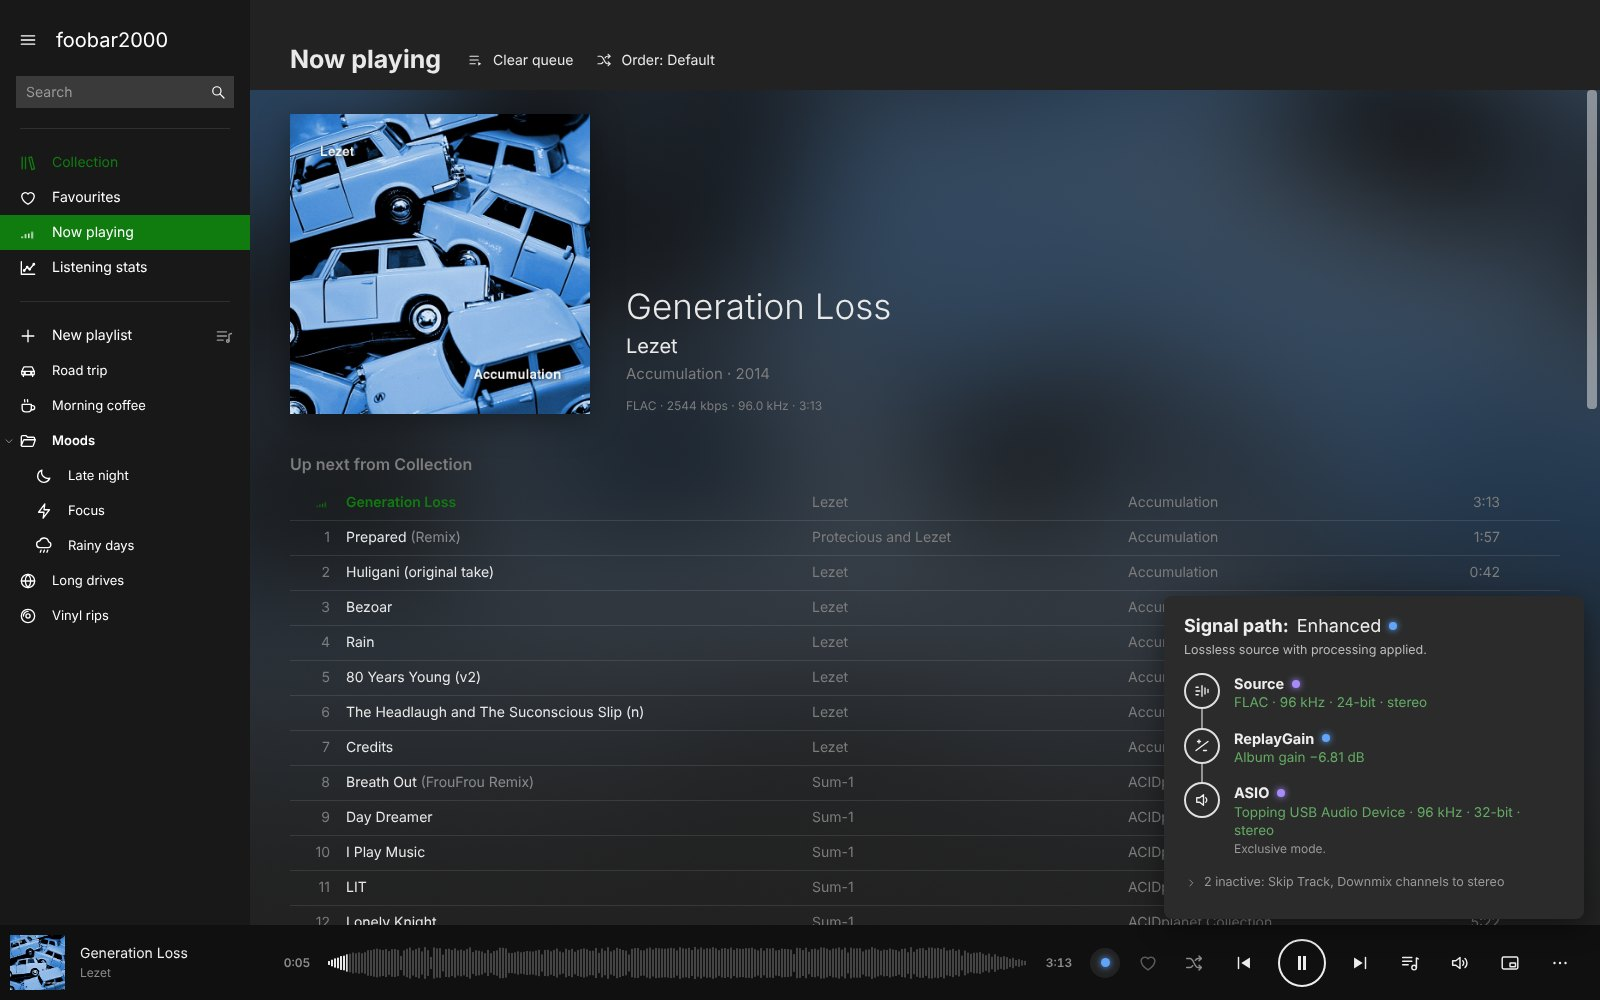
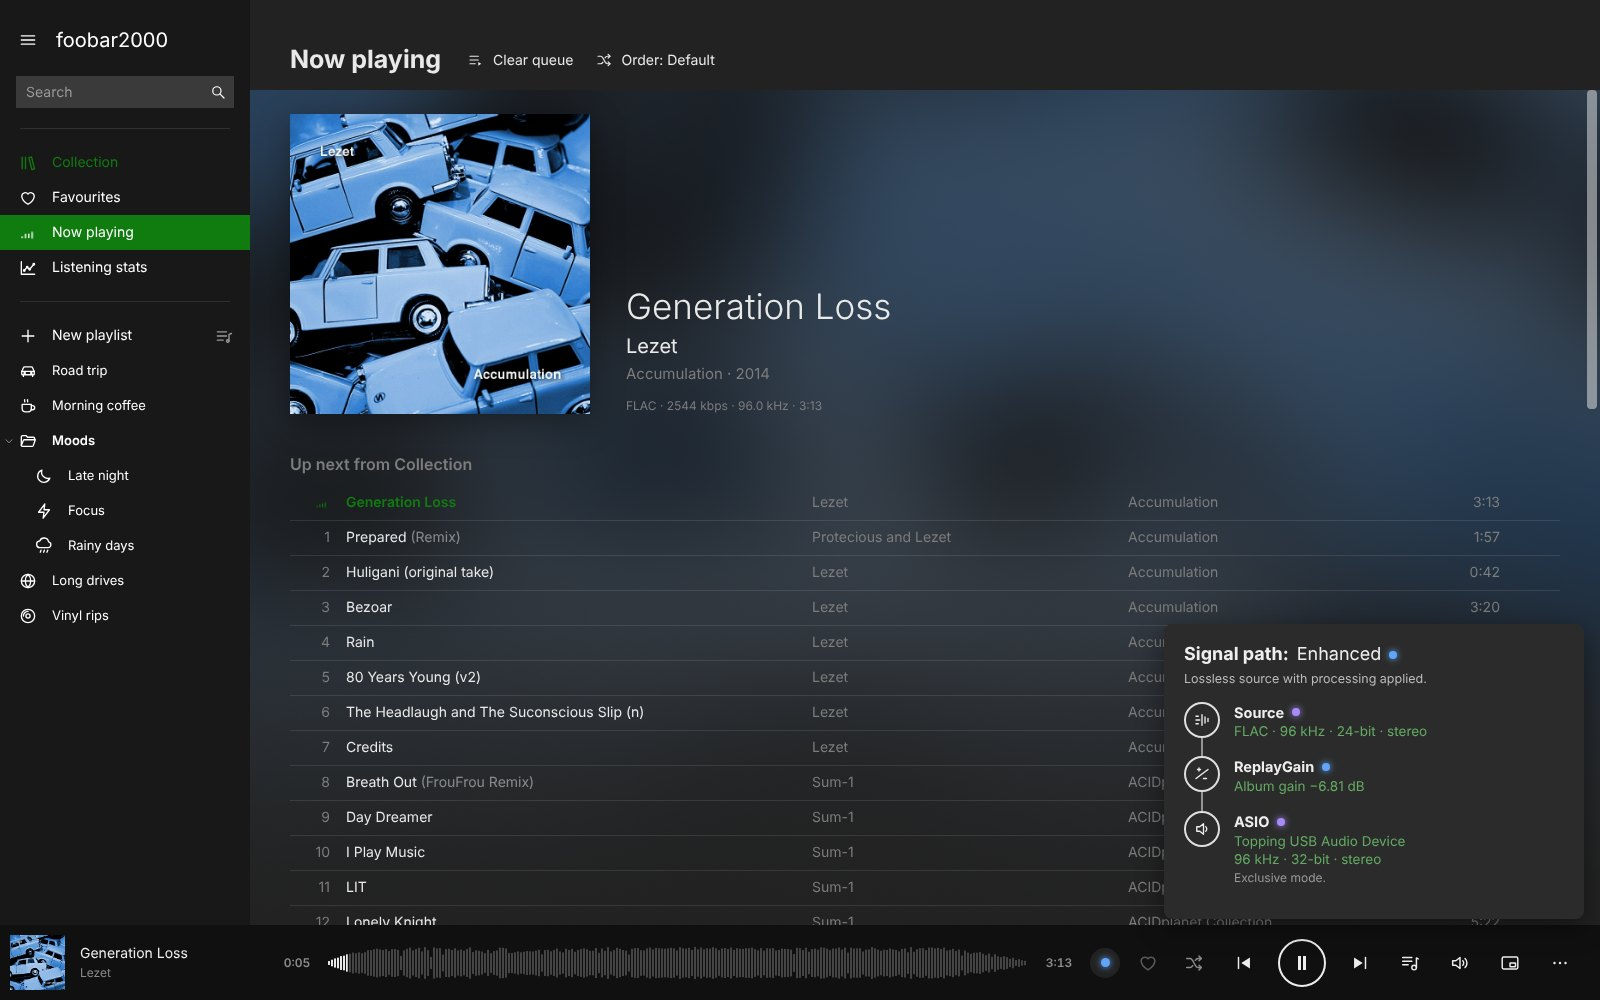
README: new mini player and signal path screenshots
Claude-Session: https://claude.ai/code/session_01X1iyiazHFsHN28CYT1jVvj

Changed region(s): [[0.7188, 0.589, 0.9375, 0.899]]

diff --git a/dev/demo/capture.js b/dev/demo/capture.js
@@ -237,7 +237,7 @@ const SHOTS = {
   },
   // The mini player (Alt+M), at twice the size so it stays sharp.
   mini: async (b) => {
-    const p = await open(b, { size: { width: 480, height: 200 }, scale: 2 });
+    const p = await open(b, { size: { width: 445, height: 148 }, scale: 2 });
     await p.evaluate(async () => (await import('/js/ui/mini.js')).toggleMini(true));
     await wait(p, 1500);
     await p.screenshot({ path: path.join(OUT, 'mini.jpg'), type: 'jpeg', quality: 90 });
